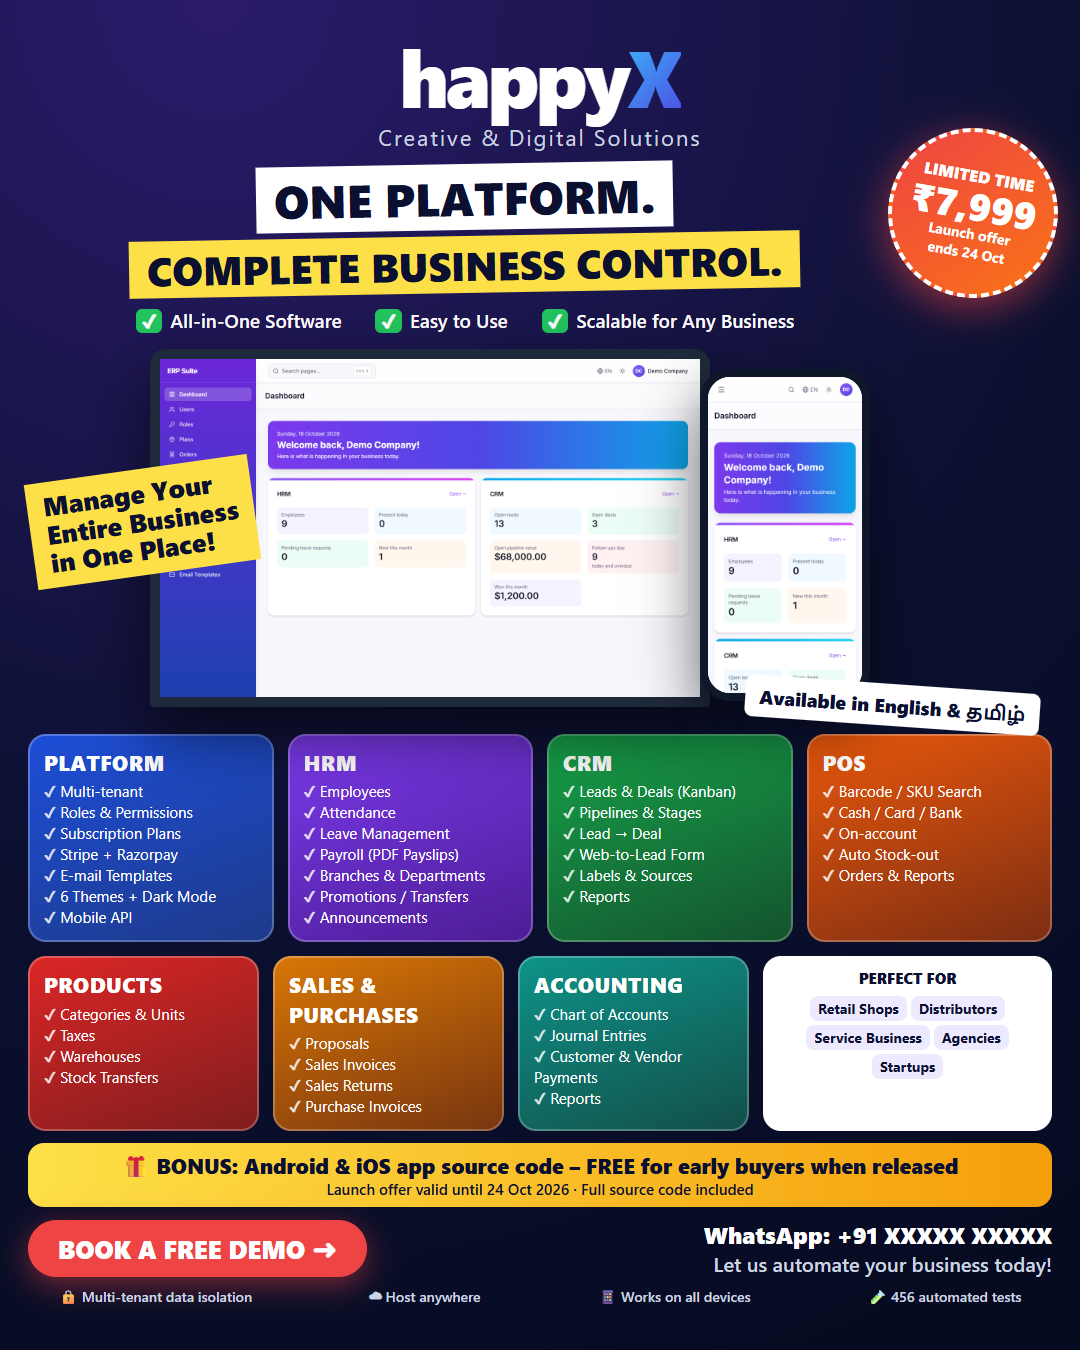
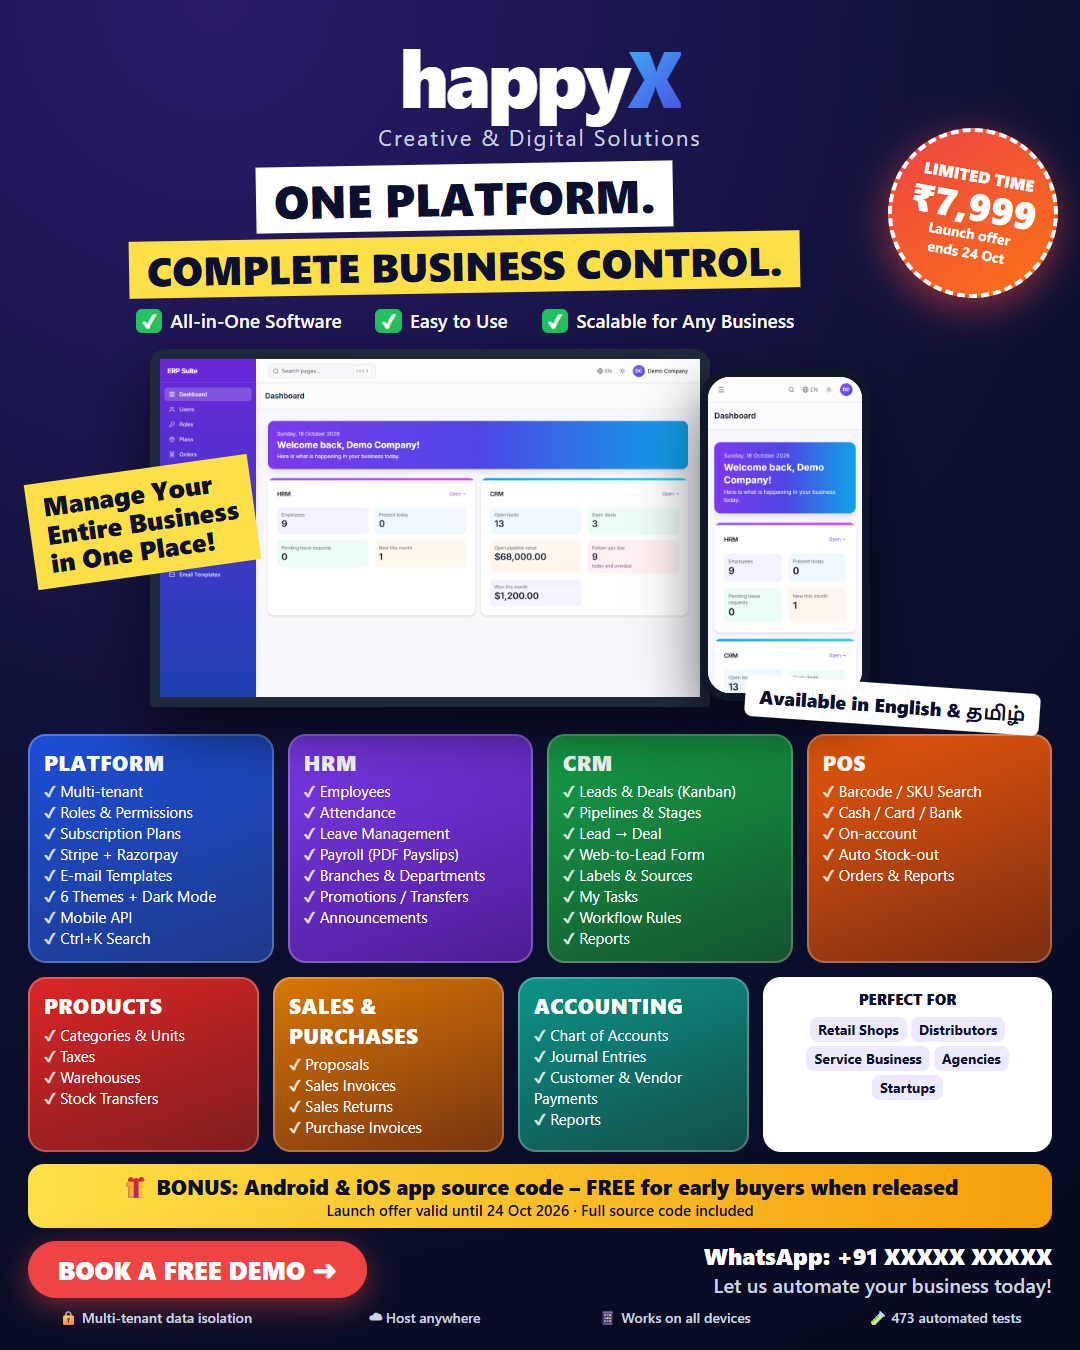
Feature lists, landing page and poster: workflow rules, My Tasks, modern UI

Changed region(s): [[0.0, 0.6533, 0.9778, 0.9956]]

diff --git a/docs/marketing/landing.html b/docs/marketing/landing.html
@@ -50,7 +50,7 @@ footer{text-align:center;color:var(--mut);padding:30px 0}
   <h2>Everything in one codebase</h2><p class="sub">Every module is tested and plugs into the same plans, roles and dashboards.</p>
   <div class="grid">
     <div class="card" style="--c:#7c3aed"><h3>HRM</h3><p>Employees, attendance, leave, shifts, payroll with PDF payslips, loans, resignation, announcements.</p></div>
-    <div class="card" style="--c:#0ea5e9"><h3>CRM</h3><p>Leads, deals, drag-and-drop kanban, pipelines, web-to-lead form, reports.</p></div>
+    <div class="card" style="--c:#0ea5e9"><h3>CRM</h3><p>Leads, deals, drag-and-drop kanban, pipelines, My Tasks, workflow automation rules, web-to-lead form, reports.</p></div>
     <div class="card" style="--c:#10b981"><h3>POS</h3><p>Barcode/SKU search, cash, card, bank, on-account. Stock and ledger update automatically.</p></div>
     <div class="card" style="--c:#f97316"><h3>Accounting &amp; Sales</h3><p>Invoices, bills, payments, ledgers, taxes, warehouses and stock.</p></div>
     <div class="card" style="--c:#e11d48"><h3>Multi-tenant SaaS</h3><p>Plans, company accounts, roles &amp; permissions, per-company data isolation.</p></div>
@@ -58,7 +58,7 @@ footer{text-align:center;color:var(--mut);padding:30px 0}
     <div class="card" style="--c:#0891b2"><h3>Mobile API</h3><p>Token-based REST API for your own Android/iOS app, documented.</p></div>
     <div class="card" style="--c:#a855f7"><h3>Modular</h3><p>Add your own module with the built-in generator. English + Tamil UI, dark mode, themes.</p></div>
   </div>
-  <p class="tags" style="margin-top:24px"><span>Laravel 12</span><span>React 18 + TypeScript</span><span>Inertia 2</span><span>Tailwind + shadcn/ui</span><span>MySQL</span><span>456 automated tests</span></p>
+  <p class="tags" style="margin-top:24px"><span>Laravel 12</span><span>React 18 + TypeScript</span><span>Inertia 2</span><span>Tailwind + shadcn/ui</span><span>MySQL</span><span>473 automated tests</span></p>
 </div></section>
 
 <section><div class="wrap">
@@ -69,7 +69,7 @@ footer{text-align:center;color:var(--mut);padding:30px 0}
     <li>Subscription plans that switch modules on/off, orders, bank-transfer approval, coupons</li>
     <li>Stripe and Razorpay payments with signed webhooks</li>
     <li>Editable e-mail templates, brand settings, 6 colour themes, light/dark mode</li>
-    <li>English + Tamil interface</li>
+    <li>English + Tamil interface, Ctrl+K page search, modern light and dark design</li>
     <li>Mobile REST API (token based) with documentation</li>
     <li>Module generator to add your own modules; demo-data command</li></ul></details>
   <details><summary>HRM</summary><ul>
@@ -86,6 +86,8 @@ footer{text-align:center;color:var(--mut);padding:30px 0}
     <li>Leads with notes and files, convert lead to deal</li>
     <li>Deals on a drag-and-drop kanban or list, won / lost</li>
     <li>Pipelines, stages, labels, sources</li>
+    <li>My Tasks: every follow-up in one list (overdue, today, upcoming)</li>
+    <li>Workflow rules: when a lead or deal is created, changes stage, is won or lost, create tasks, send e-mails, move stage, assign users</li>
     <li>Web-to-lead form for your website, dashboard and reports</li></ul></details>
   <details><summary>Point of Sale</summary><ul>
     <li>Search or scan barcode/SKU, walk-in or saved customer</li>

diff --git a/docs/marketing/poster.html b/docs/marketing/poster.html
@@ -42,9 +42,9 @@ body{width:1080px;height:1350px;margin:0 auto;font-family:'Segoe UI',system-ui,s
   <div class="lang">Available in English &amp; தமிழ்</div>
 </div>
 <div class="grid">
- <div class="c p"><h3>PLATFORM</h3><div>Multi-tenant</div><div>Roles &amp; Permissions</div><div>Subscription Plans</div><div>Stripe + Razorpay</div><div>E-mail Templates</div><div>6 Themes + Dark Mode</div><div>Mobile API</div></div>
+ <div class="c p"><h3>PLATFORM</h3><div>Multi-tenant</div><div>Roles &amp; Permissions</div><div>Subscription Plans</div><div>Stripe + Razorpay</div><div>E-mail Templates</div><div>6 Themes + Dark Mode</div><div>Mobile API</div><div>Ctrl+K Search</div></div>
  <div class="c hr"><h3>HRM</h3><div>Employees</div><div>Attendance</div><div>Leave Management</div><div>Payroll (PDF Payslips)</div><div>Branches &amp; Departments</div><div>Promotions / Transfers</div><div>Announcements</div></div>
- <div class="c cr"><h3>CRM</h3><div>Leads &amp; Deals (Kanban)</div><div>Pipelines &amp; Stages</div><div>Lead → Deal</div><div>Web-to-Lead Form</div><div>Labels &amp; Sources</div><div>Reports</div></div>
+ <div class="c cr"><h3>CRM</h3><div>Leads &amp; Deals (Kanban)</div><div>Pipelines &amp; Stages</div><div>Lead → Deal</div><div>Web-to-Lead Form</div><div>Labels &amp; Sources</div><div>My Tasks</div><div>Workflow Rules</div><div>Reports</div></div>
  <div class="c po"><h3>POS</h3><div>Barcode / SKU Search</div><div>Cash / Card / Bank</div><div>On-account</div><div>Auto Stock-out</div><div>Orders &amp; Reports</div></div>
 </div>
 <div class="row2">
@@ -55,5 +55,5 @@ body{width:1080px;height:1350px;margin:0 auto;font-family:'Segoe UI',system-ui,s
 </div>
 <div class="bonus">🎁 BONUS: Android &amp; iOS app source code – FREE for early buyers when released<small>Launch offer valid until 24 Oct 2026 · Full source code included</small></div>
 <div class="cta"><div class="b">BOOK A FREE DEMO ➜</div><div class="w">WhatsApp: +91 XXXXX XXXXX<small>Let us automate your business today!</small></div></div>
-<div class="foot"><span>🔒 Multi-tenant data isolation</span><span>☁ Host anywhere</span><span>📱 Works on all devices</span><span>🧪 456 automated tests</span></div>
+<div class="foot"><span>🔒 Multi-tenant data isolation</span><span>☁ Host anywhere</span><span>📱 Works on all devices</span><span>🧪 473 automated tests</span></div>
 </body></html>

diff --git a/docs/FEATURES.md b/docs/FEATURES.md
@@ -9,9 +9,10 @@
 - Editable e-mail templates (per-company overrides)
 - Settings: brand, title, logo, theme colour (6 presets), light/dark mode
 - English and Tamil interface
+- Modern UI: refreshed light and dark themes, Ctrl+K page search, colour-coded status badges
 - Mobile REST API with Sanctum tokens (`docs/API.md`)
 - Demo data command: `php artisan app:demo <company email>`
-- 456 automated tests
+- 473 automated tests
 
 ## HRM
 - Dashboard: headcount by department, 7-day attendance, new joiners, gender / employment-type charts, pending approvals
